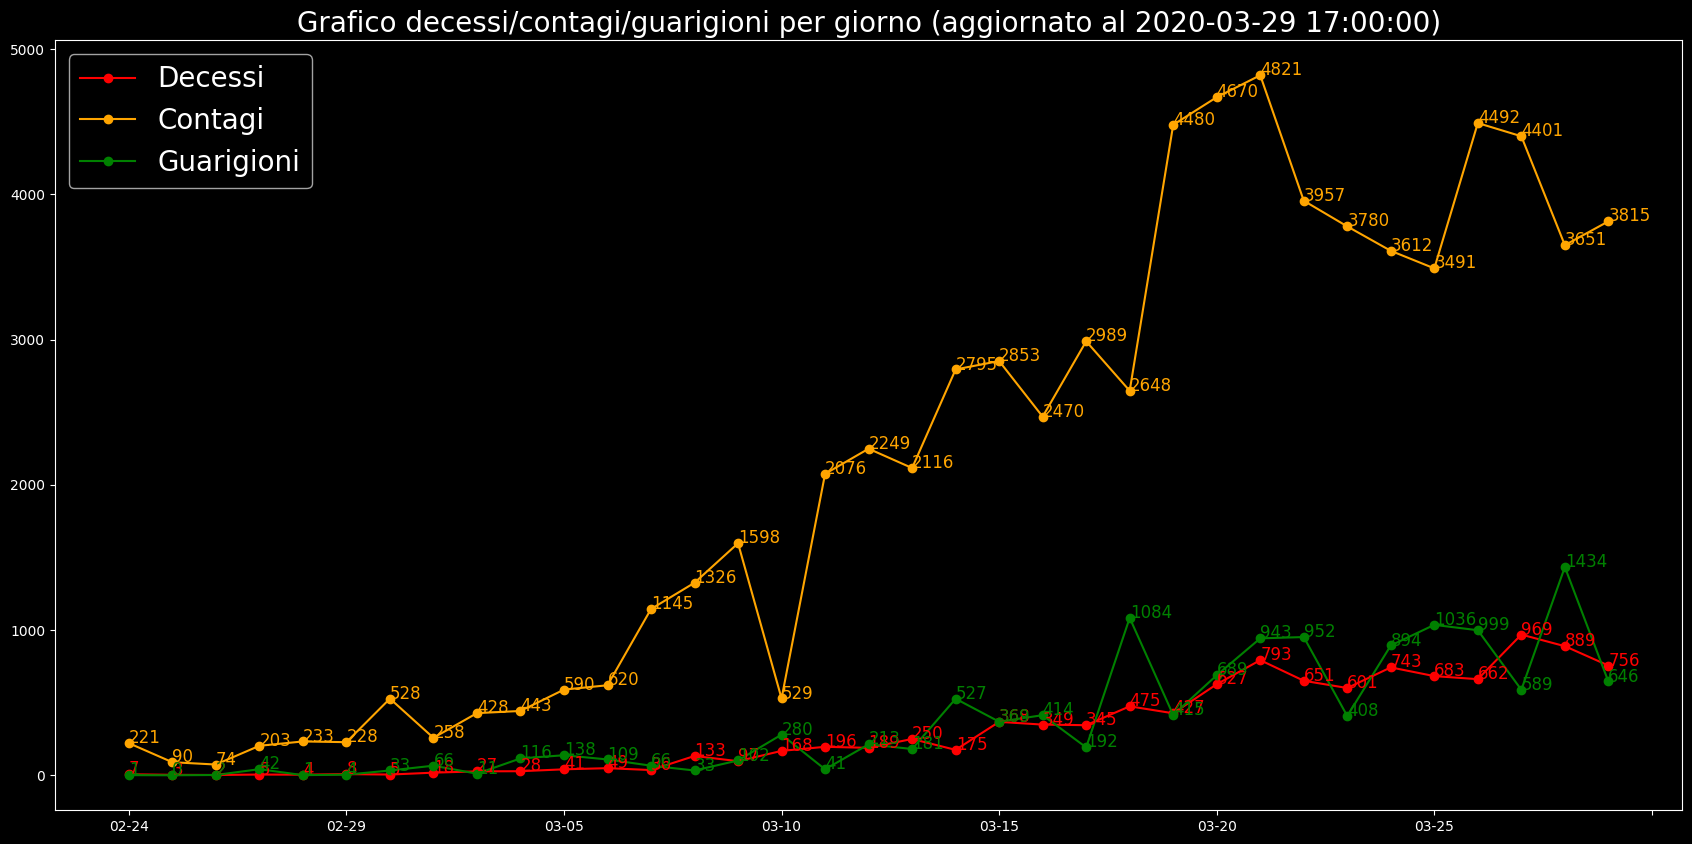
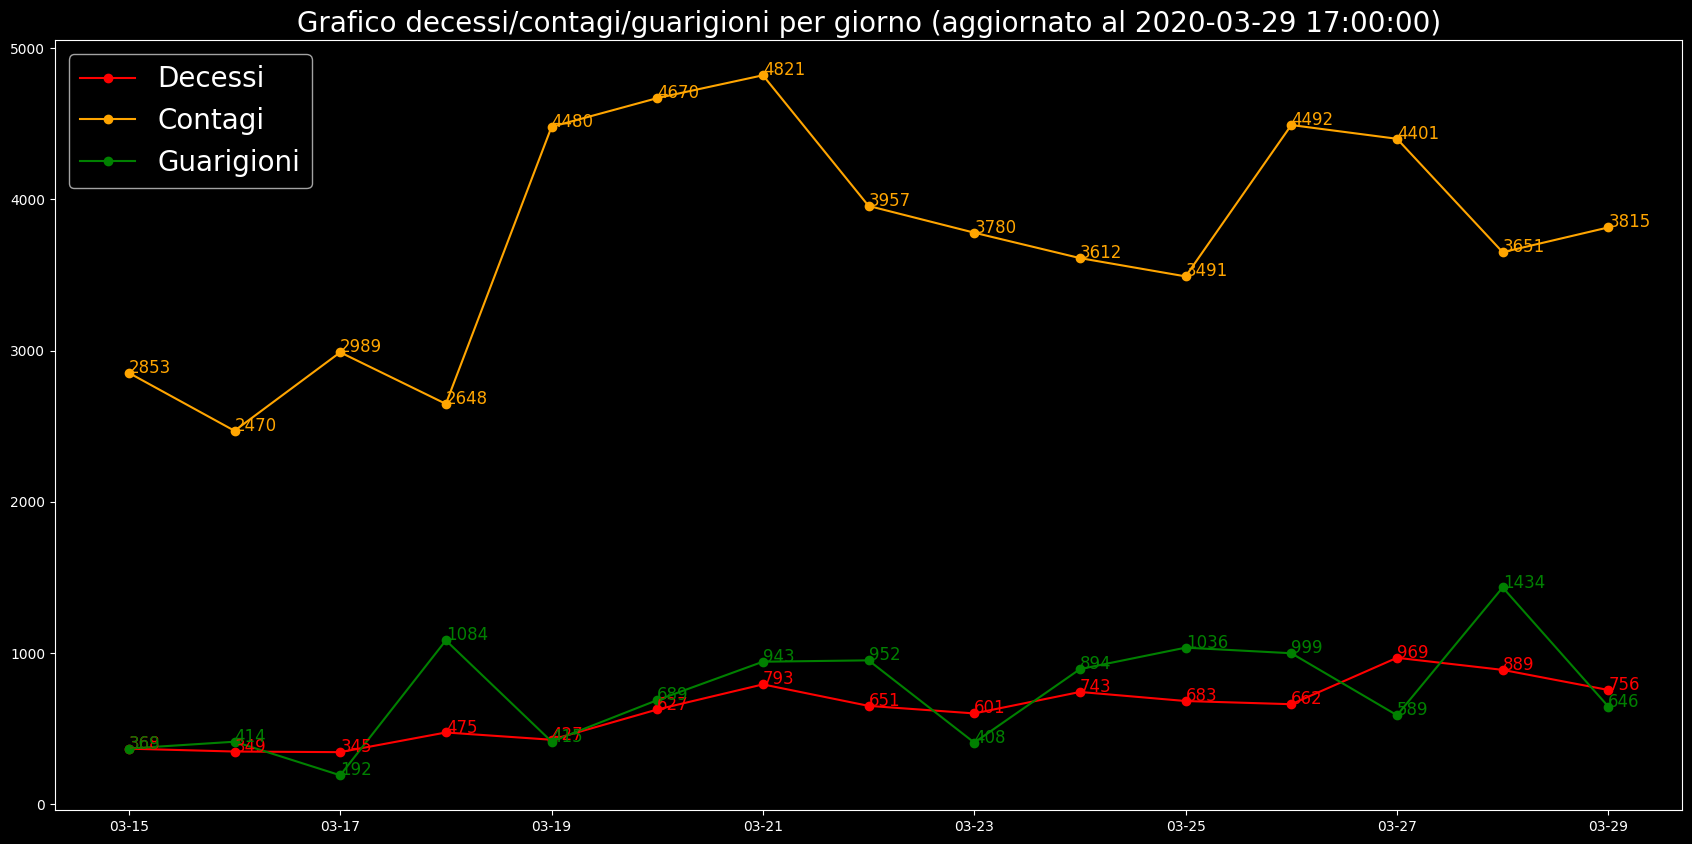
Changed graph to display last 15 days

diff --git a/covid19graphs/src/ContHealDeathPerDay.py b/covid19graphs/src/ContHealDeathPerDay.py
@@ -3,7 +3,7 @@ import pandas as pd
 import numpy as np
 import csv
 import copy
-days = 0  # 0 se vuoi vedere ogni giorno dal 24 febbraio
+days = 15  # 0 se vuoi vedere ogni giorno dal 24 febbraio
 
 # Funzione che rimuove l'orario dalla data di prelievo dei dati
 def removehourandyear(listdays):
@@ -74,12 +74,11 @@ def main():
     alldays = list(covid_parser)[1:]
     
     #Salvo l'originale in caso possa servirmi dopo
-    cumulativedays = copy.deepcopy(alldays)
+    cumulativedays = copy.deepcopy(alldays)[-days:]
 
     # Lista giorni
     listadati = dayperday(alldays)[-days:]             #Rimuovo la cumulazione dai dati
-    giornocasi = [h[0] for h in listadati]          #Creo una lista da cui ricavare i giorni interessati
-    
+    giornocasi = [h[0] for h in listadati][-days:]          #Creo una lista da cui ricavare i giorni interessati
     #Rimuovo l'ora e l'anno dalle date
     removehourandyear(giornocasi)
 
